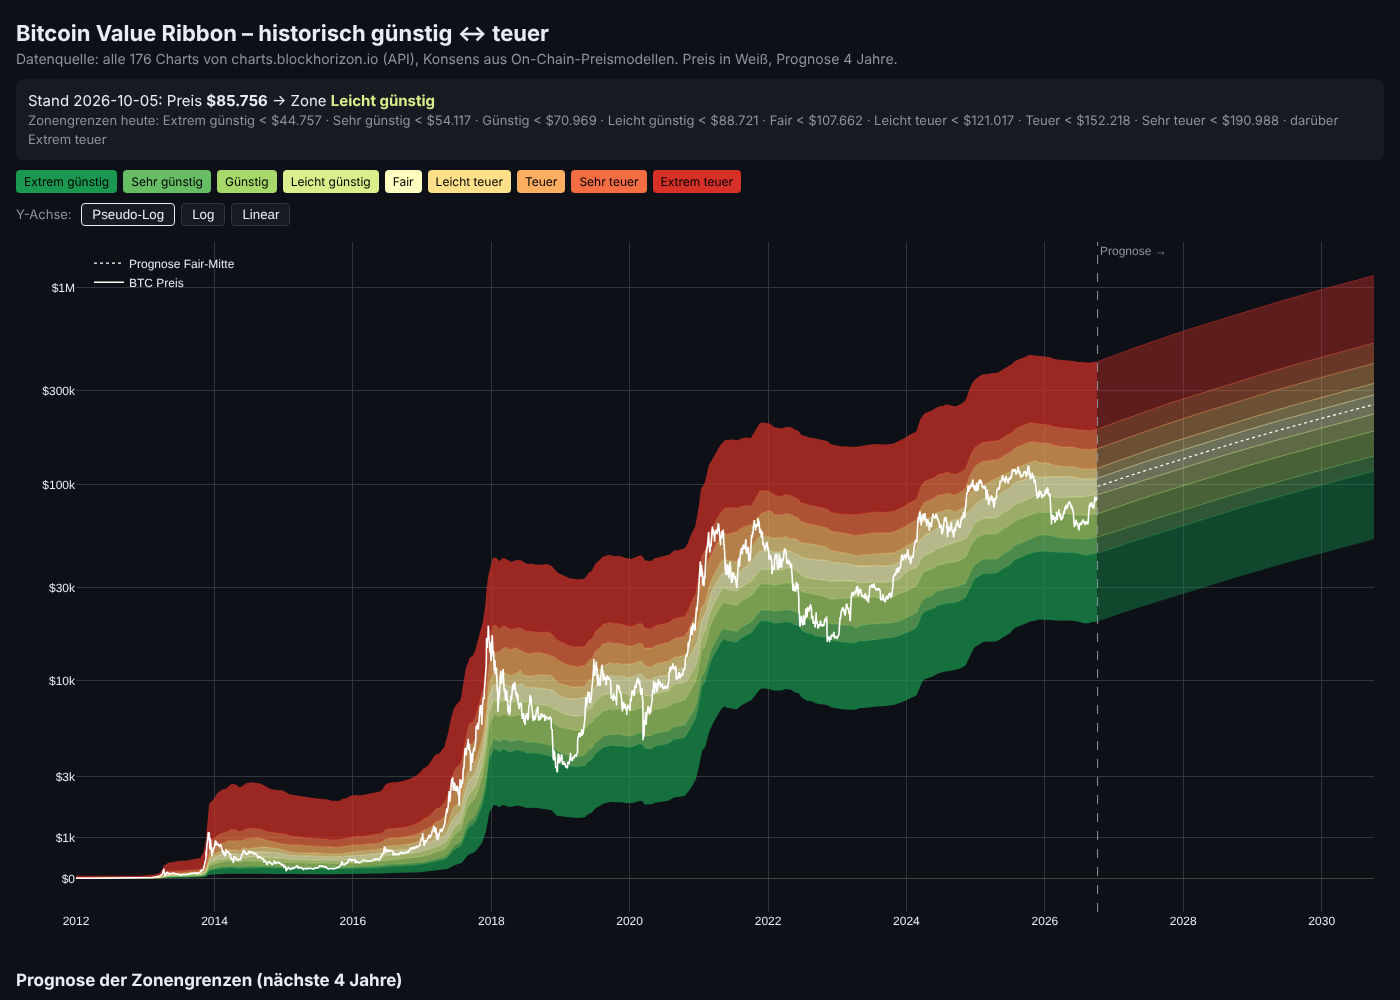
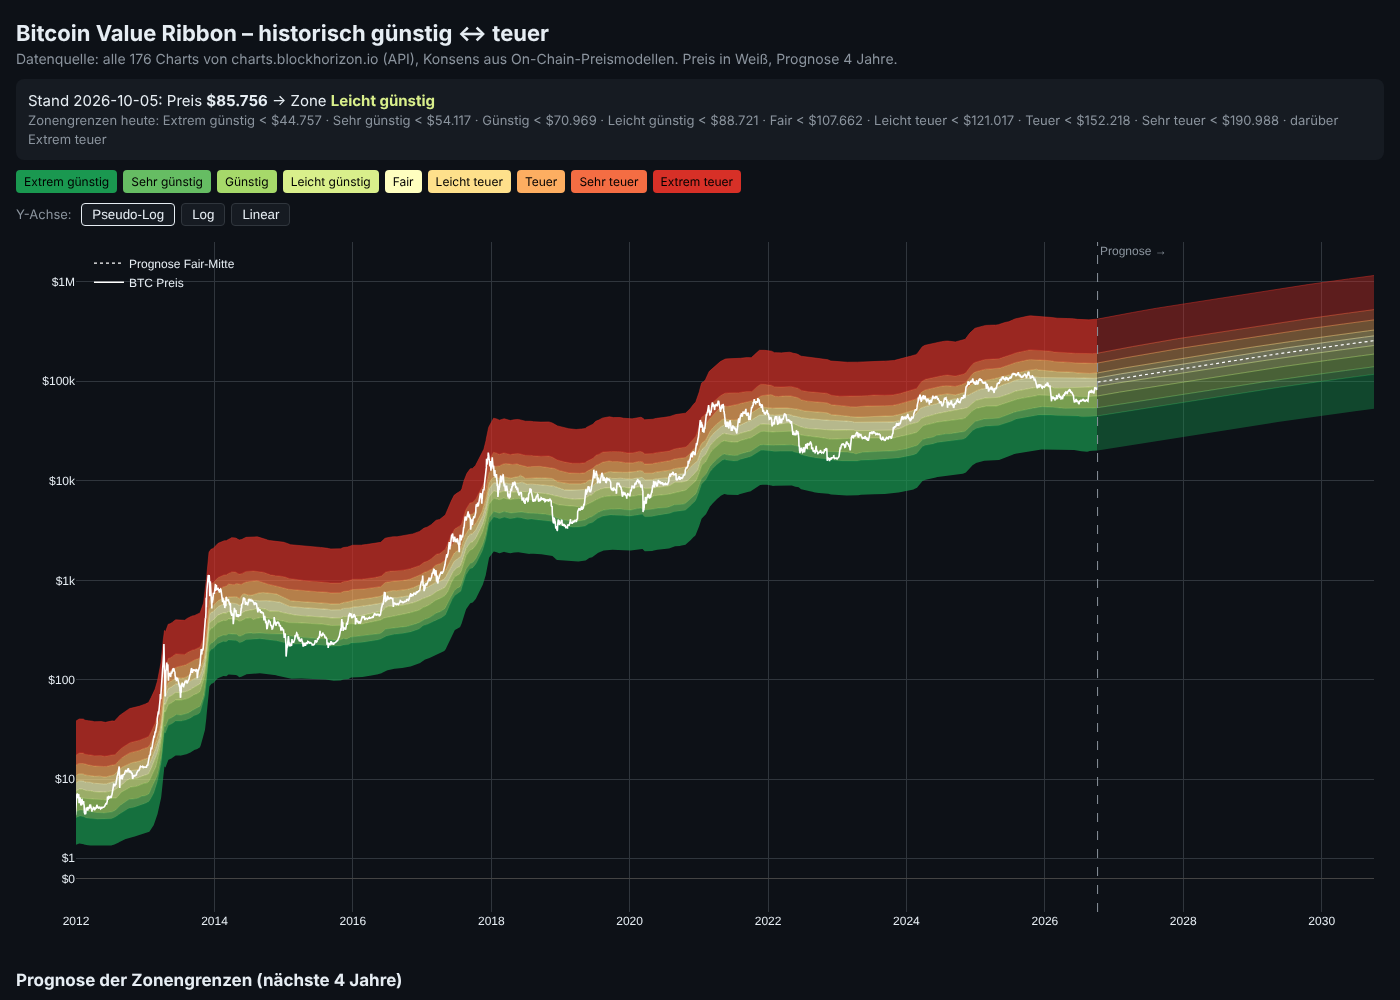
Ribbon: pseudo-log axis with sigma = $1
Claude-Session: https://claude.ai/code/session_01N1wHwgTZa7C2MZRWFjQ9M4

diff --git a/bitcoin-value-ribbon.html b/bitcoin-value-ribbon.html
@@ -30,8 +30,8 @@ const D={"dates": ["2010-11-01", "2010-11-02", "2010-11-03", "2010-11-04", "2010
 const names=['Extrem günstig','Sehr günstig','Günstig','Leicht günstig','Fair','Leicht teuer','Teuer','Sehr teuer','Extrem teuer'];
 const cols=['#1a9850','#66bd63','#a6d96a','#d9ef8b','#ffffbf','#fee08b','#fdae61','#f46d43','#d73027'];
 const f=v=>'$'+Math.round(v).toLocaleString('de-DE');
-// Pseudo-Log: linear um 0, logarithmisch für große Werte (asinh, Umschaltpunkt C)
-const C=1000, T=v=>Math.asinh(v/(2*C)), ext=a=>[a[0].map(v=>v*0.45),...a,a[a.length-1].map(v=>v*2.2)];
+// Pseudo-Log: linear um 0, logarithmisch für große Werte (asinh, sigma = $1)
+const C=1, T=v=>Math.asinh(v/(2*C)), ext=a=>[a[0].map(v=>v*0.45),...a,a[a.length-1].map(v=>v*2.2)];
 let mode='pseudo';
 function Y(a){return mode==='pseudo'?a.map(T):a}
 function build(){
@@ -50,7 +50,7 @@ function build(){
  const ya={gridcolor:'#30363d'};
  if(mode==='log'){Object.assign(ya,{type:'log',range:[0,6.3],tickprefix:'$',tickformat:',.0f'})}
  else if(mode==='lin'){Object.assign(ya,{type:'linear',tickprefix:'$',tickformat:',.0f'})}
- else{const tv=[0,1000,3000,10000,30000,100000,300000,1000000];Object.assign(ya,{type:'linear',tickvals:tv.map(T),ticktext:tv.map(v=>v>=1e6?'$1M':v>=1e3?'$'+v/1e3+'k':'$'+v)})}
+ else{const tv=[0,1,10,100,1000,10000,100000,1000000];Object.assign(ya,{type:'linear',tickvals:tv.map(T),ticktext:tv.map(v=>v>=1e6?'$1M':v>=1e3?'$'+v/1e3+'k':'$'+v)})}
  Plotly.react('chart',tr,{paper_bgcolor:'#0d1117',plot_bgcolor:'#0d1117',font:{color:'#e6edf3'},hovermode:'x',
   margin:{l:60,r:10,t:10,b:40},yaxis:ya,legend:{x:0.01,y:0.99,bgcolor:'rgba(0,0,0,0)'},
   shapes:[{type:'line',x0:D.fdates[0],x1:D.fdates[0],yref:'paper',y0:0,y1:1,line:{color:'#8b949e',dash:'dash',width:1}}],

diff --git a/bitcoin-value-ribbon/template.html b/bitcoin-value-ribbon/template.html
@@ -30,8 +30,8 @@ const D=__DATA__;
 const names=['Extrem günstig','Sehr günstig','Günstig','Leicht günstig','Fair','Leicht teuer','Teuer','Sehr teuer','Extrem teuer'];
 const cols=['#1a9850','#66bd63','#a6d96a','#d9ef8b','#ffffbf','#fee08b','#fdae61','#f46d43','#d73027'];
 const f=v=>'$'+Math.round(v).toLocaleString('de-DE');
-// Pseudo-Log: linear um 0, logarithmisch für große Werte (asinh, Umschaltpunkt C)
-const C=1000, T=v=>Math.asinh(v/(2*C)), ext=a=>[a[0].map(v=>v*0.45),...a,a[a.length-1].map(v=>v*2.2)];
+// Pseudo-Log: linear um 0, logarithmisch für große Werte (asinh, sigma = $1)
+const C=1, T=v=>Math.asinh(v/(2*C)), ext=a=>[a[0].map(v=>v*0.45),...a,a[a.length-1].map(v=>v*2.2)];
 let mode='pseudo';
 function Y(a){return mode==='pseudo'?a.map(T):a}
 function build(){
@@ -50,7 +50,7 @@ function build(){
  const ya={gridcolor:'#30363d'};
  if(mode==='log'){Object.assign(ya,{type:'log',range:[0,6.3],tickprefix:'$',tickformat:',.0f'})}
  else if(mode==='lin'){Object.assign(ya,{type:'linear',tickprefix:'$',tickformat:',.0f'})}
- else{const tv=[0,1000,3000,10000,30000,100000,300000,1000000];Object.assign(ya,{type:'linear',tickvals:tv.map(T),ticktext:tv.map(v=>v>=1e6?'$1M':v>=1e3?'$'+v/1e3+'k':'$'+v)})}
+ else{const tv=[0,1,10,100,1000,10000,100000,1000000];Object.assign(ya,{type:'linear',tickvals:tv.map(T),ticktext:tv.map(v=>v>=1e6?'$1M':v>=1e3?'$'+v/1e3+'k':'$'+v)})}
  Plotly.react('chart',tr,{paper_bgcolor:'#0d1117',plot_bgcolor:'#0d1117',font:{color:'#e6edf3'},hovermode:'x',
   margin:{l:60,r:10,t:10,b:40},yaxis:ya,legend:{x:0.01,y:0.99,bgcolor:'rgba(0,0,0,0)'},
   shapes:[{type:'line',x0:D.fdates[0],x1:D.fdates[0],yref:'paper',y0:0,y1:1,line:{color:'#8b949e',dash:'dash',width:1}}],
